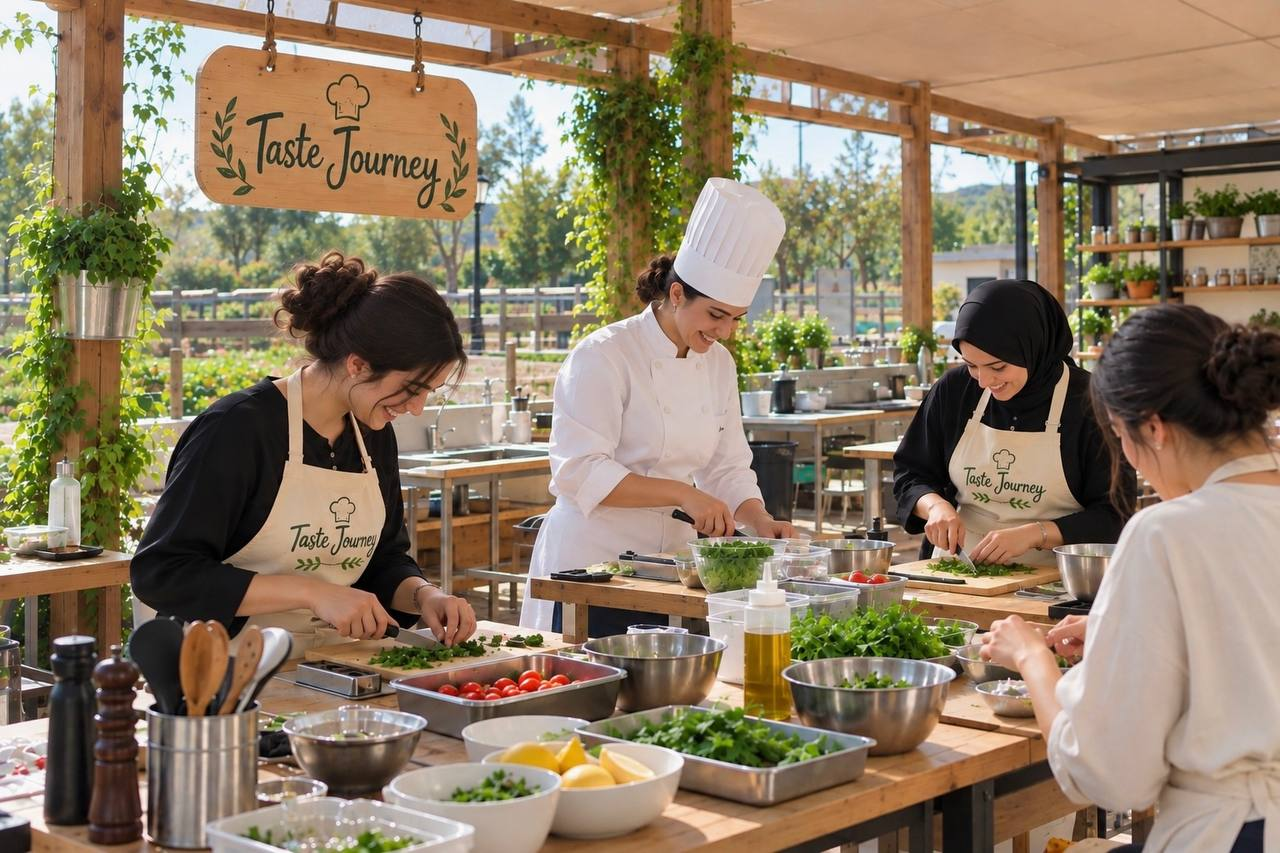
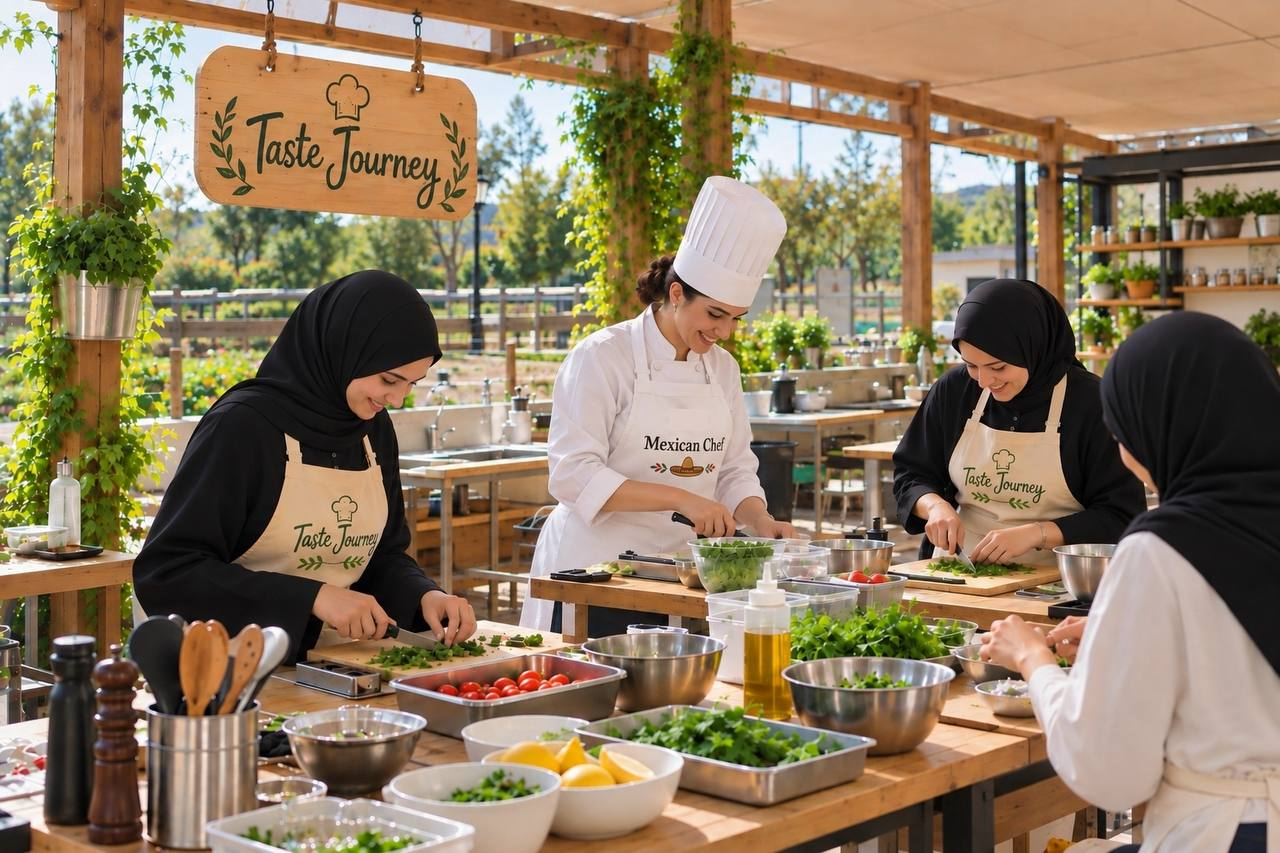
pull

diff --git a/Home.html b/Home.html
@@ -6,15 +6,6 @@
 <meta charset="UTF-8">
  <link rel="stylesheet" href="style.css">
 <title>Taste Journey</title>
-</head>
-<body>
-<header>
-<div class="logo">
-    <img src="images/loogo.png" alt="logo">
-      <h2>Taste Journey</h2>
-
-
-</div>
 
 <style>
   .home-hero { display: flex; align-items: center; gap: 10px; padding: 40px 5%; }
@@ -37,6 +28,18 @@
   .home-stars { color: #999; font-size: 1.4rem; }
 </style>
 
+</head>
+<body>
+<header>
+<div class="logo">
+    <img src="images/loogo.png" alt="logo">
+      <h2>Taste Journey</h2>
+
+
+</div>
+
+
+
 </header>
 <div class="navbar">
 <nav>
@@ -58,7 +61,7 @@
       <p>Be part of our cooking club and experience recipes, cooking skills and culinary adventures.</p>
       <a href="Offering.html" class="home-btn">Get Started</a>
     </div>
-    <img src="images/Home.jpg" alt="">
+    <img src="images/home.jpg" alt="">
   </section>
 
   <section class="home-know">

diff --git a/Request.html b/Request.html
@@ -142,7 +142,7 @@ main h1 {
         <option value="passport-to-flavor">Passport to Flavor</option>
         <option value="mexican-flavors">Mexican Flavors</option>
       </select>
-      <span class="arrow">V</span>
+      <span class="arrow">&#9660;</span>
     </div>
 
     <label for="fullname">Full Name</label>

diff --git a/Evaluation.html b/Evaluation.html
@@ -187,7 +187,7 @@ main h1 {
         <option value="passport-to-flavor">Passport to Flavor</option>
         <option value="mexican-flavors">Mexican Flavors</option>
       </select>
-      <span class="arrow">V</span>
+      <span class="arrow">&#9660;</span>
     </div>
 
     <fieldset>
